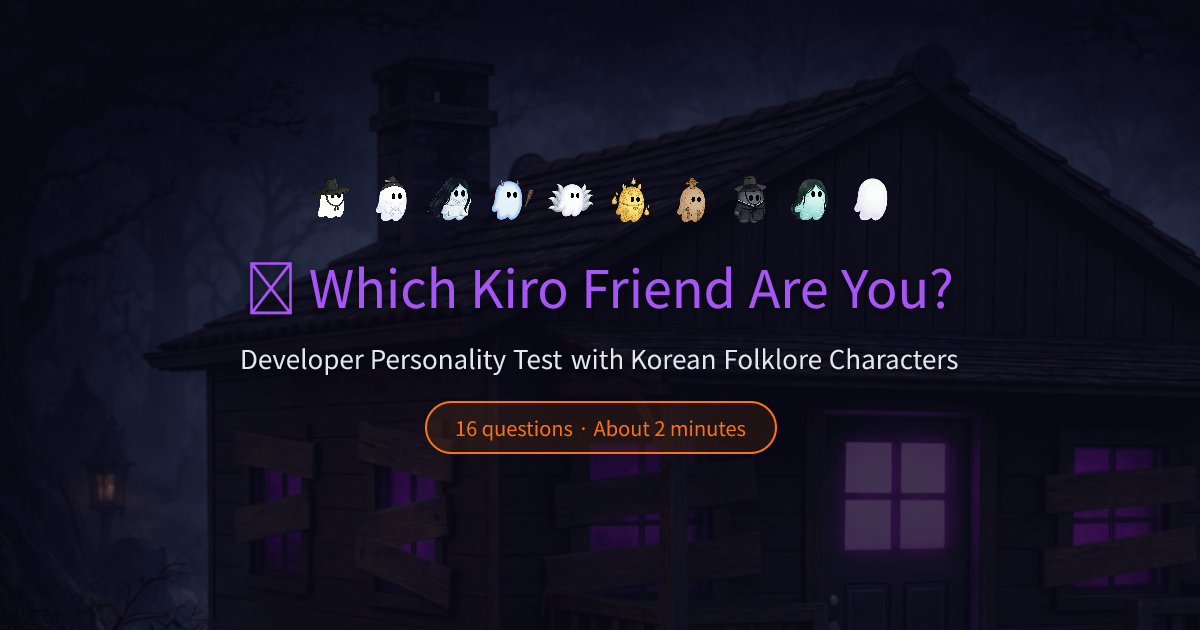
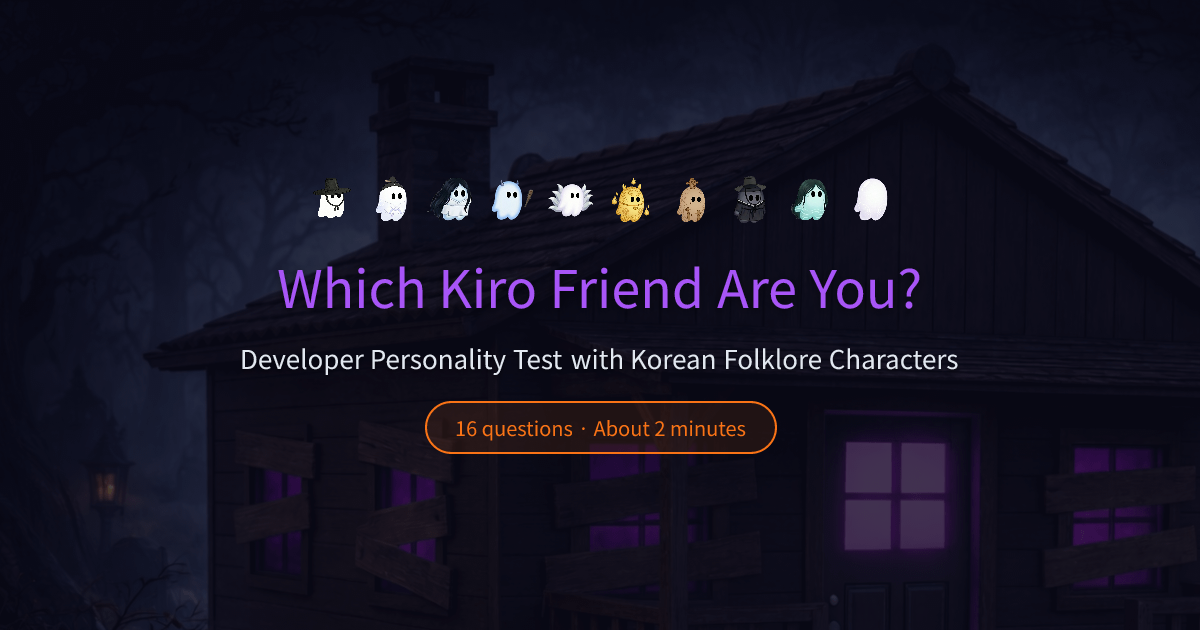
fix(og): remove emoji from title to prevent rendering issues
- Remove 👻 emoji from OG image title
- Use plain text titles for better font rendering
- Regenerate default OG images for all languages

Changed region(s): [[0.185, 0.3921, 0.8017, 0.5127]]

diff --git a/scripts/generate-og.ts b/scripts/generate-og.ts
@@ -377,7 +377,11 @@ function createDefaultOgMarkup(bgImageSrc: string, locale: Locale) {
                     textAlign: 'center',
                     textShadow: '0 2px 8px rgba(0, 0, 0, 0.5)',
                   },
-                  children: t('home.title'),
+                  children: locale === 'ko' 
+                    ? '당신은 어떤 Kiro 프렌즈?'
+                    : locale === 'en'
+                    ? 'Which Kiro Friend Are You?'
+                    : 'あなたはどのKiroフレンズ？',
                 },
               },
               // 서브타이틀
